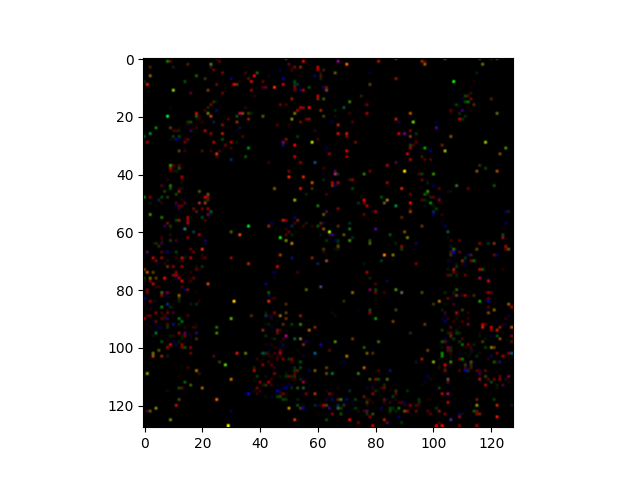
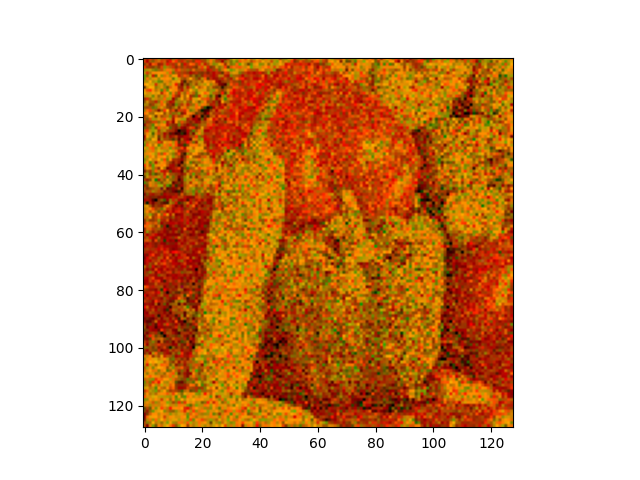
PSO lijkt grotendeels te werken?

diff --git a/assignment_3/exercise_pso/pso_clustering.py b/assignment_3/exercise_pso/pso_clustering.py
@@ -2,12 +2,12 @@ import numpy as np
 import matplotlib.pyplot as plt
 from PIL import Image
 
+#HUH WAT WERKT HIER NIET????
 input_img = np.array(Image.open("image.png"))
 
 def fitness(particle, image, i):
     original_pixel = image.reshape(-1, 3)[i]
-    distance = np.linalg.norm(particle - original_pixel)
-    return distance**2
+    return np.sum((original_pixel - particle) ** 2)
 
 def pso_color_quantization(image, w, a1, a2):
     pixels = image.reshape(-1, 3)
@@ -15,10 +15,10 @@ def pso_color_quantization(image, w, a1, a2):
     particles = np.random.randint(0, 256, (len(pixels), 3))
     velocities = np.zeros_like(particles)
     local_best = np.zeros_like(particles)
-    global_best = 0
+    global_best = np.array([0, 0, 0])
     
     not_happy = True
-    j = 100
+    j = 10
 
     while not_happy:
         j -= 1
@@ -29,17 +29,23 @@ def pso_color_quantization(image, w, a1, a2):
             r1 = np.random.uniform(0, 1, 3)
             r2 = np.random.uniform(0, 1, 3)
             velocities[i] = (w * velocities[i] + a1 * r1 * (local_best[i] - particles[i]) + a2 * r2 * (global_best - particles[i]))
+        new_particles = np.zeros_like(particles)
         for i in range(len(particles)):
-            new_particles = np.zeros_like(particles)
-            new_particles[i] = particles[i] + velocities[i]
-            if fitness(new_particles[i], image, i) < fitness(particles[i], image, i):
+            new_particles[i] = np.clip(particles[i] + velocities[i], 0, 255)
+            fitness_new = fitness(new_particles[i], image, i)
+            fitness_old = fitness(particles[i], image, i)
+            fitness_global = fitness(global_best, image, i)
+            if fitness_new < fitness_old:
                 local_best[i] = new_particles[i]
-            if fitness(new_particles[i], image, i) < fitness(global_best, image, i):
+            if fitness_new < fitness_global:
                 global_best = new_particles[i]
+        particles = new_particles
 
     return local_best
+        
+     
 
 
-particles = pso_color_quantization(input_img, 0.7, 1.5,  1.5)
+particles = pso_color_quantization(input_img, 0.73, 1.5, 1.5)
 plt.imshow(particles.reshape(input_img.shape))
 plt.savefig("output.png")
